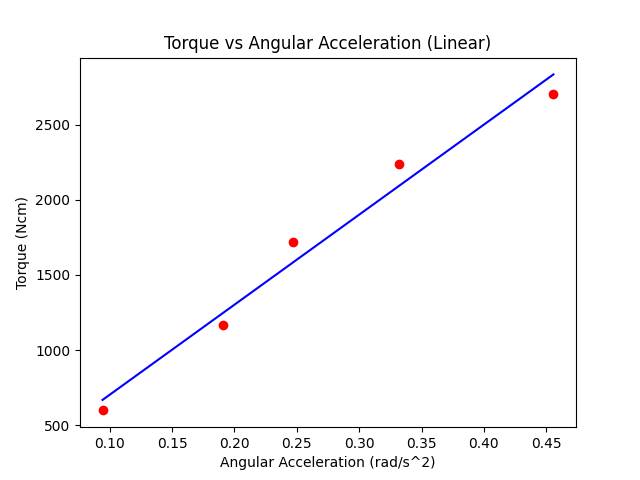
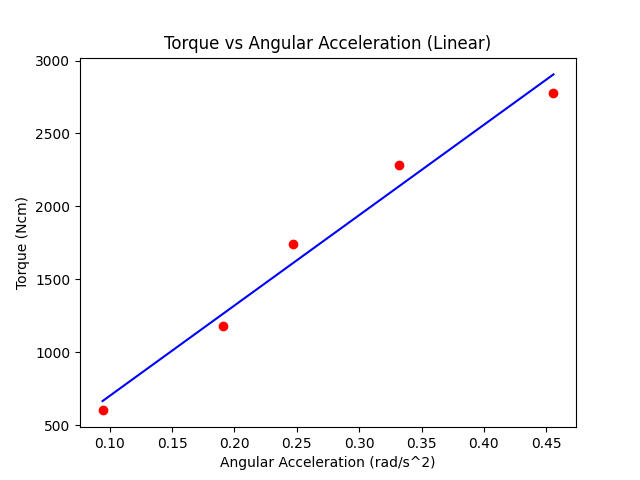
BIG EDIT (CHANGED ANGULAR ACCELERATIONS)

diff --git a/main.py b/main.py
@@ -88,7 +88,11 @@ def get_tension_forces(mass_acceleration_lists):
 def get_mass_accelerations(averaged_angular_acceleration_values):
     accelerations_list = []
     for acceleration in averaged_angular_acceleration_values:
-        accelerations_list.append(acceleration * wheel_radius_cm)
+        # Get Linear Acceleartion (String)
+        linear_acceleration = acceleration * wheel_radius_cm
+        # Convert Linear Acceleration to Angular Acceleration of Platform Axle (Platform Angular Acceleration)
+        accelerations_list.append(linear_acceleration/radius_axle_cm)
+    print(accelerations_list)
     return accelerations_list
 
 # Get Slope of Datapoints
@@ -140,7 +144,6 @@ def get_averaged_angular_acceleration_values(data_frame):
         slope = get_slope(position_data_per_run[i])
         # Append to Averaged Angular Acceleration List
         averaged_angular_acceleration_values.append(slope)
-    print(averaged_angular_acceleration_values[2:])
 
     # for angular_acceleration_list in angular_acceleration_lists:
     #     averaged_angular_acceleration_values.append(np.mean(angular_acceleration_list))
